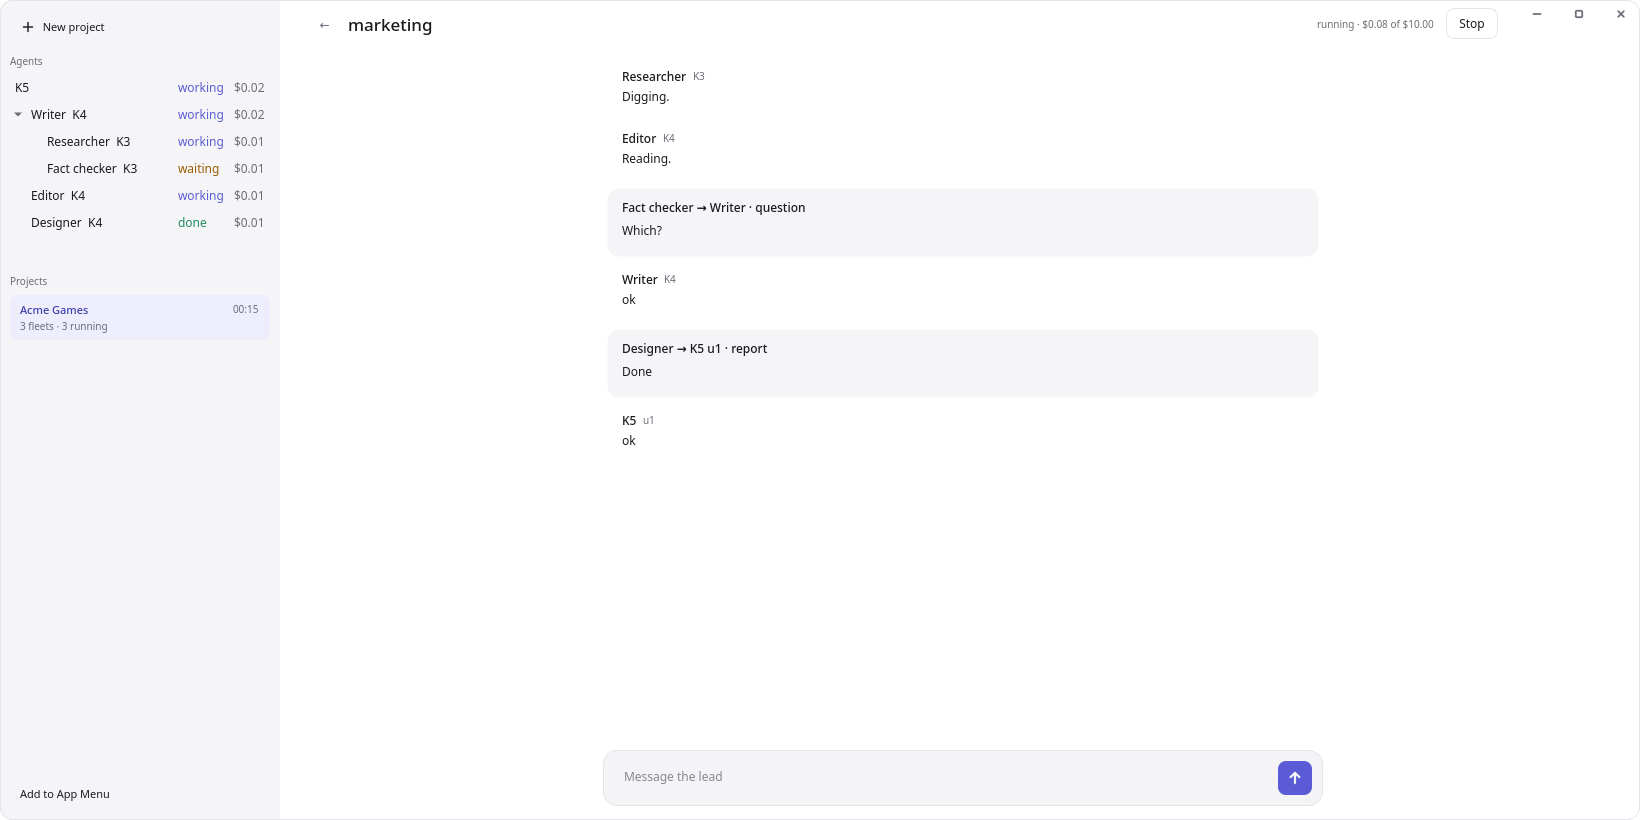
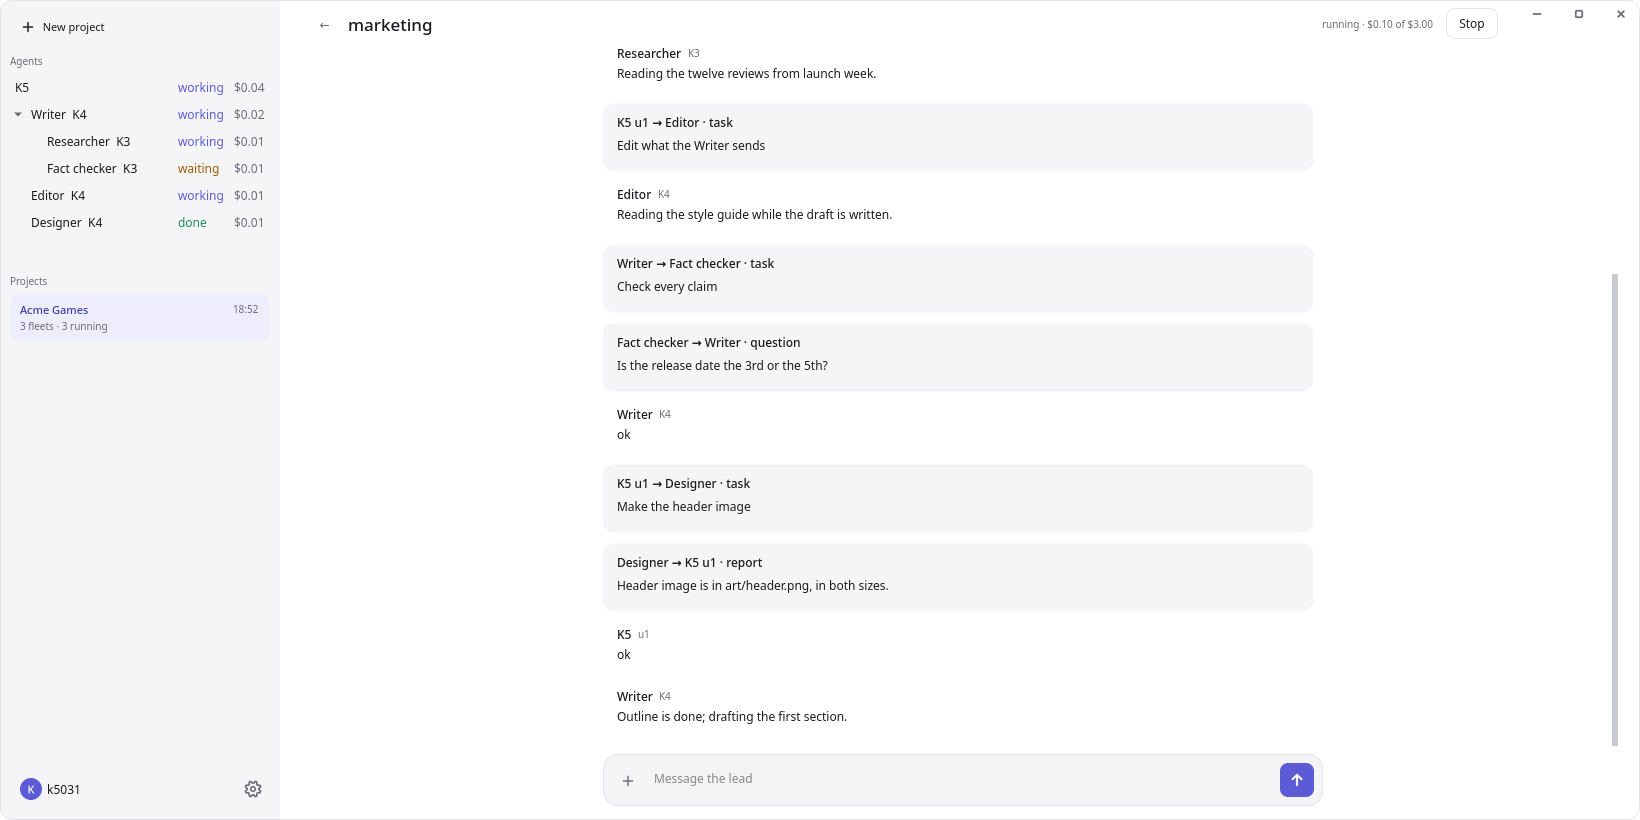
Show the window in the README, and retake its pictures
The README opens on a project's chart, light or dark with the reader's
theme. The chart and the fleet page are retaken with the profile corner
the window now has.

diff --git a/README.md b/README.md
@@ -5,7 +5,14 @@ task. You tell the lead agent what you want; it plans, hands parts of the work t
 below it, checks what comes back and reports to you. The fleet works without supervision,
 inside the spending limit and permissions you set.
 
-It is an early version: one fleet at a time, followed from a terminal.
+<picture>
+  <source media="(prefers-color-scheme: dark)" srcset="docs/images/window-dark.png">
+  <img src="docs/images/window-light.png" alt="The KFM window on a project with three running fleets, one of them a tree of six agents">
+</picture>
+
+A project's fleets in the window.
+
+It is an early version.
 
 ```bash
 kfm run "Audit this repository's docs and fix what is out of date" --budget 5
